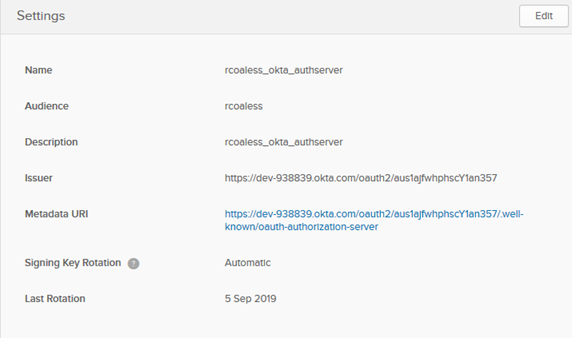
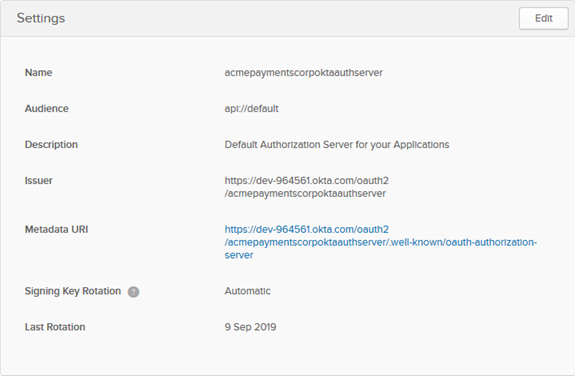
ATMO-29993 Okta use case, edits

diff --git a/cm/learnmore/uc_tc_okta.htm b/cm/learnmore/uc_tc_okta.htm
@@ -34,10 +34,10 @@ nav-title: Testing in Test Client with OAuth Provider Okta
 
 
 <h3 id="uc_okta_overview">Overview</h3>
-<p>This use case provides end to end steps so that you can set up an application and an authorization server on Okta, set up a domain in the developer portal, create and configure an app and API, request and activate a contract, and then use Test Client to test the API. You'll see the OAuth token, generated by the authorization server, when you call the API.</p>
+<p>This use case provides end to end steps so that you can set up an application and an authorization server on Okta, set up a domain in the developer portal, create and configure an app and API, request and activate a contract, and then use Test Client to test the API. You'll see the OAuth token, generated by the authorization server.</p>
 <p>This use case assumes you already have:</p>
 <ul>
-	<li>An instance of the developer portal, with Business Admin positions so that you can add a domain, an API, and an app.</li>
+	<li>An instance of the developer portal, with Business Admin permissions so that you can add a domain, an API, and an app.</li>
 	<li>An Okta account. You can create a free account, for testing purposes, at <a href="https://developer.okta.com/" title="Link to sign-on page for an Okta developer account" target="_blank">https://developer.okta.com/</a>.</li>
 </ul>
 <p><a href="#top">Back to top</a></p>
@@ -81,12 +81,12 @@ nav-title: Testing in Test Client with OAuth Provider Okta
 	<li>In the <strong>Add Authorization Server</strong> window, set up the following values:
 		<ul>
 			<li><strong>Name</strong>: A unique name for your authorization server. Example: <strong>acmepaymentscorpoktaauthserver</strong>.</li>
-			<li><strong>Audience</strong>: <strong>api://default</strong> {<span class="apidoc_red">SG please verify that's what we should set up</span>}</li>
+			<li><strong>Audience</strong>: <strong>api://default</strong></li>
 			<li><strong>Description</strong>: a short description. In this example: <strong>acmepaymentscorp Okta auth server</strong>.</li>
 		</ul>
 	</li>
 	<li>Click <strong>Save</strong>.</li>
-	<li>Copy the metadata URI. You'll use this to set up the API OAuth Details in the developer portal (see <a href="#uc_okta_dp_api_oauthdetails">Setting up the API OAuth Details</a> below). In this example: <strong>https://dev-938839.okta.com/oauth2/aus1ajfwhphscY1an357/.well-known/oauth-authorization-server</strong>.</li>
+	<li>Copy the metadata URI. You'll use this to set up the API OAuth Details in the developer portal (see <a href="#uc_okta_dp_api_oauthdetails">Setting up the API OAuth Details</a> below). In this example: <strong>https://dev-964561.okta.com/oauth2/acmepaymentscorpoktaauthserver/.well-known/oauth-authorization-server</strong>.</li>
 	<li>Click the <strong>Scopes</strong> tab.</li>
 	<li>Click <strong>Add Scope</strong> to add a custom scope, and specify the following values:
 		<ul>
@@ -136,7 +136,7 @@ nav-title: Testing in Test Client with OAuth Provider Okta
 	<li>On Tab 4, <strong>Access Token Validation</strong>, check the <strong>JWT Bearer Access Token</strong> box.</li>
 	<li>Provide the following values:
 		<ul>
-			<li><strong>Issuer</strong>: the value from your Okta account, Authorization Server settings, Issuer field. Example: <strong>https://dev-938839.okta.com/oauth2/aus1ajfwhphscY1an357</strong>.</li>
+			<li><strong>Issuer</strong>: the value from your Okta account, Authorization Server settings, Issuer field. Example: <strong>https://dev-964561.okta.com/oauth2/acmepaymentscorpoktaauthserver</strong>.</li>
 			<li><strong>Audience</strong>: the value from your Okta account, Authorization Server settings, Audience field. In this example: <strong>api://default</strong>.</li>
 			<li><strong>ClientID Claim Name</strong>: cid</li>
 			<li><strong>Scope Claim Name</strong>: scp</li>
@@ -271,12 +271,13 @@ nav-title: Testing in Test Client with OAuth Provider Okta
 	<li>Click the <strong>Security</strong> button. You'll see the OAuth Security Policy page. Click <strong>Get Token</strong>. The token is returned. An example is shown below.
 <p><img src="uc_okta_assets/uc_okta_dp_tc_security_oauth.png" alt="Test Client: getting the OAuth token" /></p>
 	</li>
+	<li>When you have the token, click <strong>Next</strong> and then, at the Same Origin Policy Page, click <strong>Finish</strong>.</li>
 	<li>Click <strong>Invoke</strong>. The API response is returned. The example from this use case is shown below.
-<p><img src="uc_okta_assets/uc_okta_dp_tc_result.png" alt="Test Client: getting the OAuth token" /></p>
+	<p><img src="uc_okta_assets/uc_okta_dp_tc_result.png" alt="Test Client: getting the OAuth token" /></p>
 	</li>
 </ol>
-<p>That's really the end of the use case; OAuth was applied to the API call, and the developer portal validated the app credentials, called the OAuth provider, got the OAuth token, and used the OAuth token to get the API response from the API endpoint.</p>
-<p>You could invoke the API a few times and look at the resulting metrics; see <a href="#uc_okta_dp_api_metrics">Viewing the API metrics</a> below. When testing your API with Test Client, it's a good idea to have the Detailed Auditing policy attached to the API so that you can see metrics. In a live environment, in most cases, a Detailed Auditing policy would not be used.</p>
+<p>That's the end of the use case; OAuth was applied to the API call, and the developer portal validated the app credentials, called the OAuth provider, got the OAuth token, and used the OAuth token to get the API response from the API endpoint.</p>
+<p>You could invoke the API a few times and look at the resulting metrics; see <a href="#uc_okta_dp_api_metrics">Viewing the API metrics</a> below. When testing your API with Test Client, it's a good idea to have the Detailed Auditing policy attached to the API, as in this example, so that you can look at the logs. In a live environment, in most cases, a Detailed Auditing policy would not be used.</p>
 <p>For general documentation about using Test Client, see <a href="api_admin_testing_tc.htm">API Testing with Test Client</a>.</p>
 <p><a href="#top">Back to top</a></p>
 
